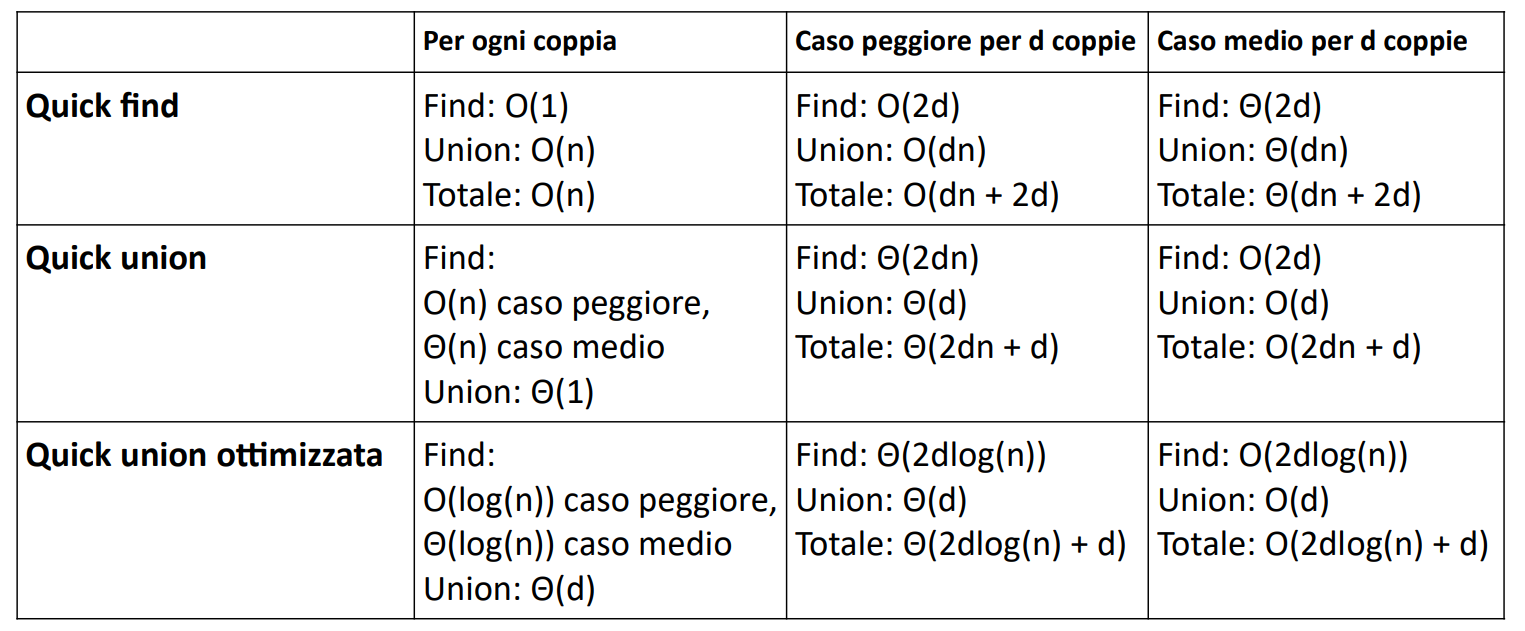
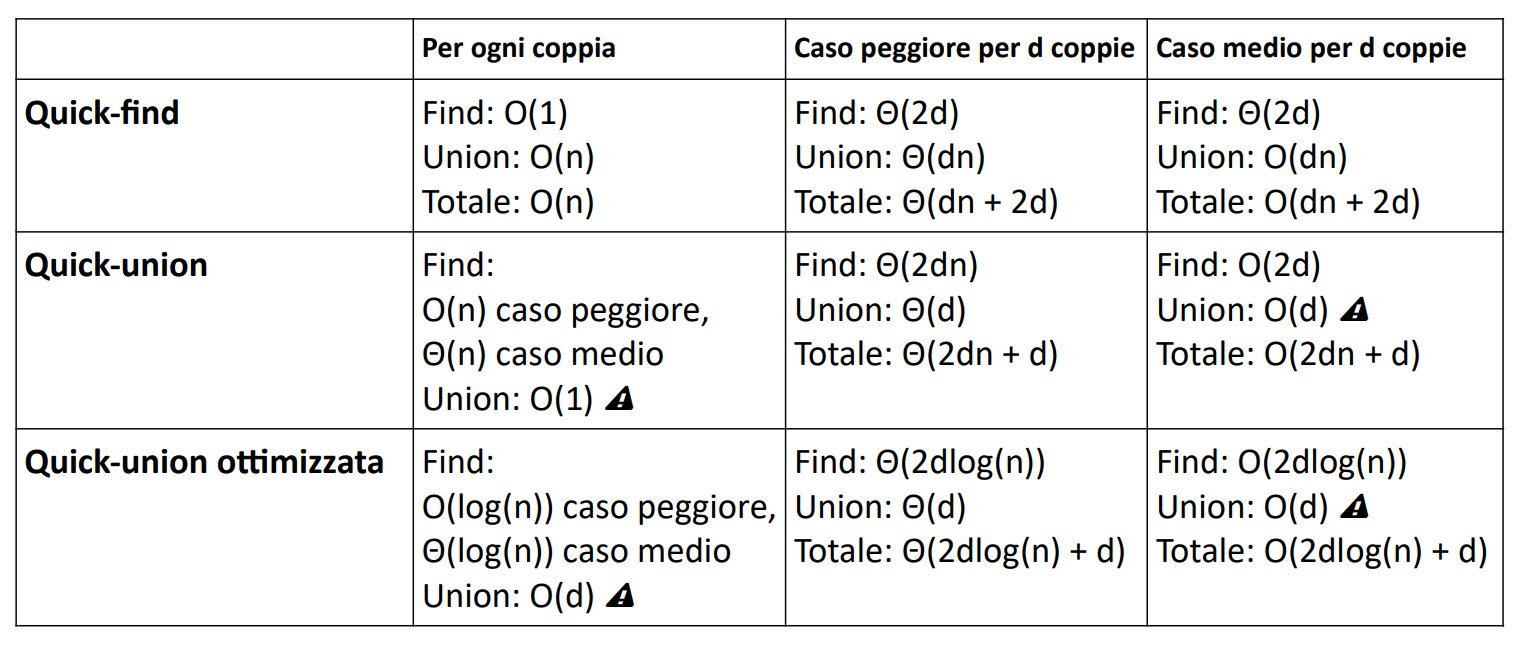
update photos and quick-find

Changed region(s): [[0.0, 0.0, 0.9862, 0.9937], [0.0, 0.3914, 0.1541, 0.4517]]

diff --git a/riassunto.md b/riassunto.md
@@ -33,7 +33,7 @@ Per ogni coppia (p, q), se è connessa passo alla coppia successiva, altrimenti 
     <img src = "foto\quickfind.png" width = 400 px>
 </div><br>
 
-⚠ in breve: il **secondo** valore della coppia viene messo nel vettore **dove trovo il primo valore**.
+⚠ in breve: per unire due elementi p e q, si sostituiscono tutti gli elementi del vettore id che hanno valore uguale a ``` id[p] ``` con il valore ``` id[q] ```.
 
 - #### Analisi complessità:
 
